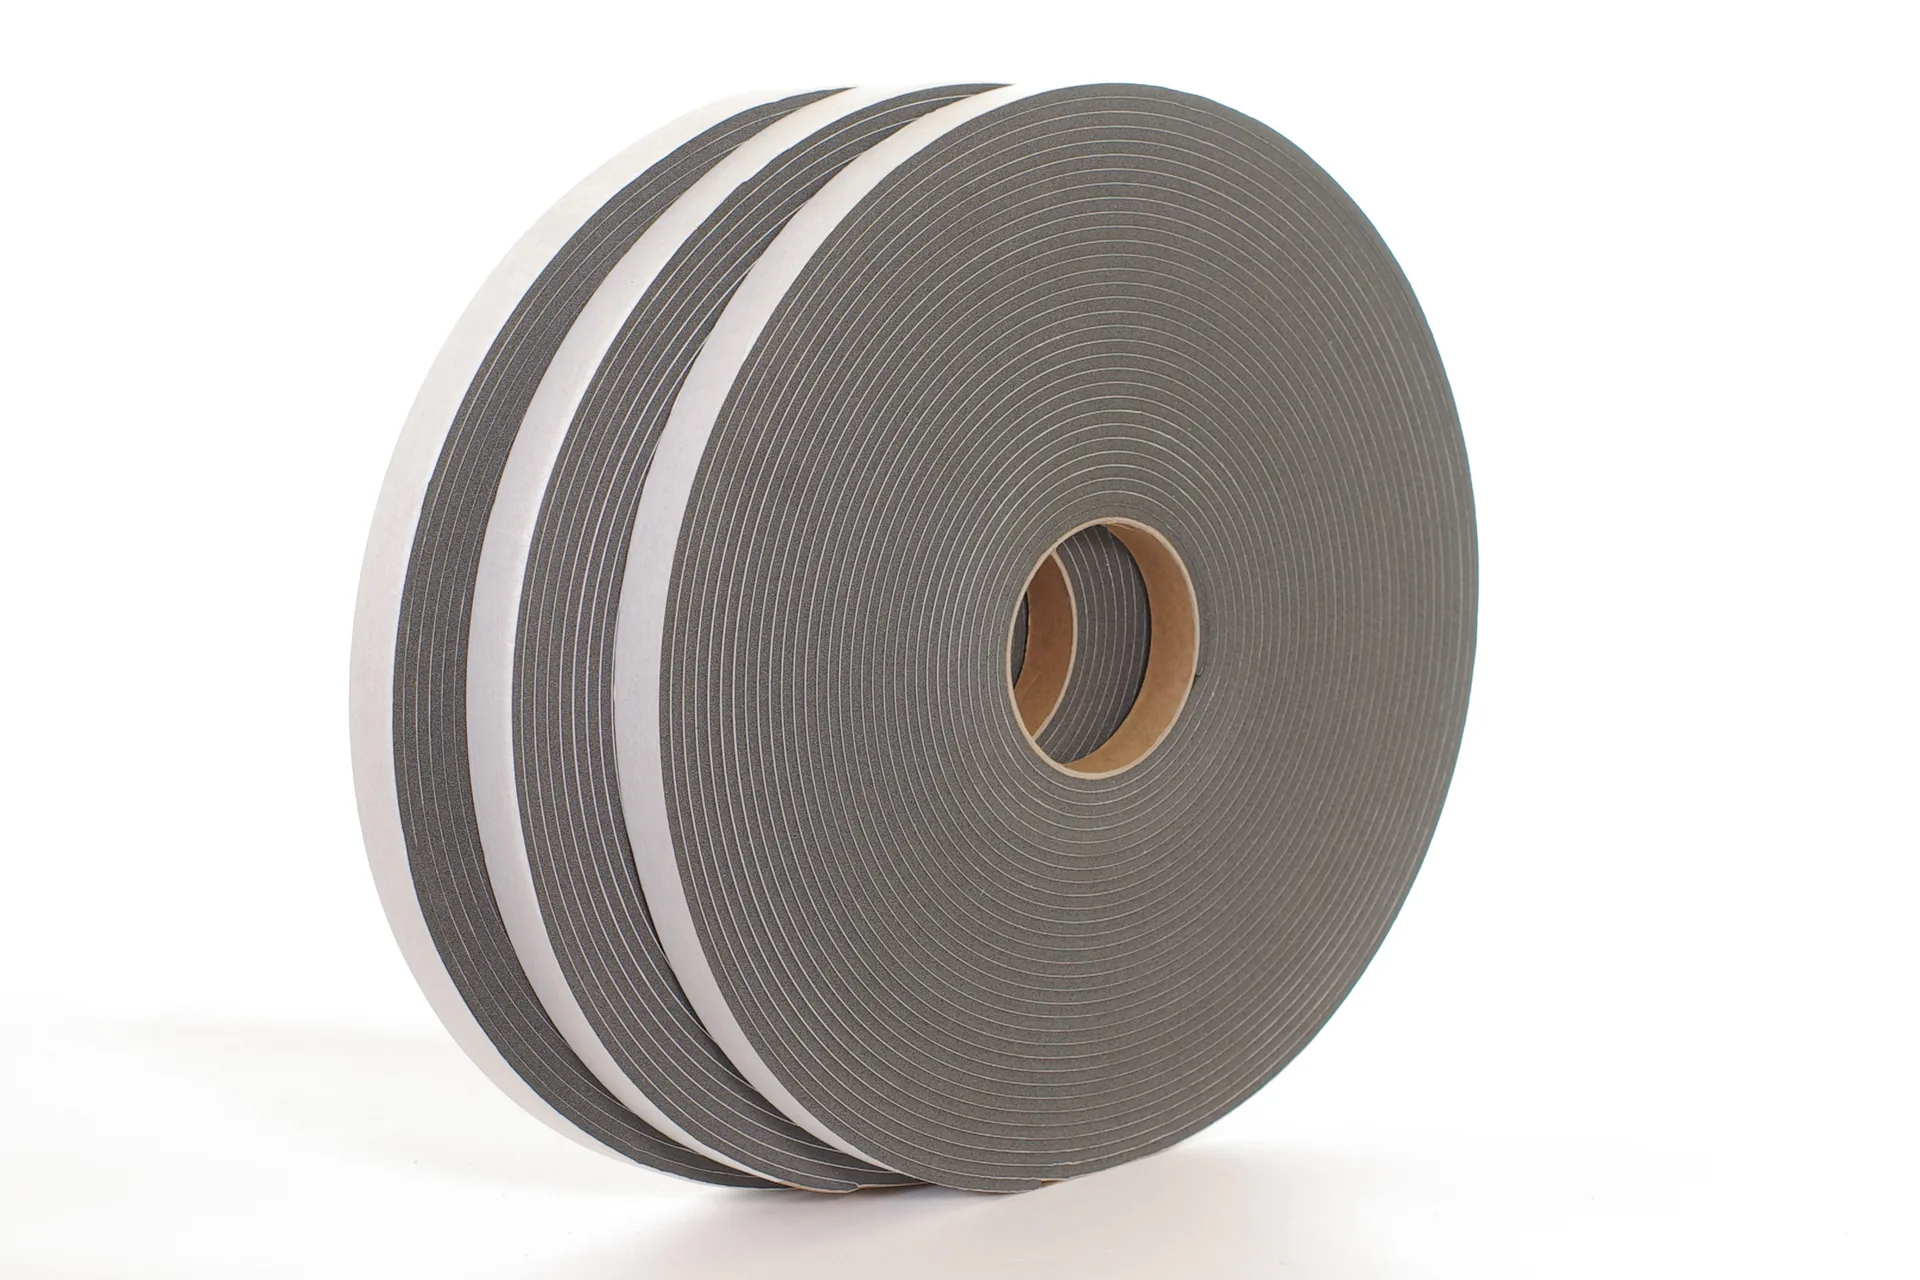
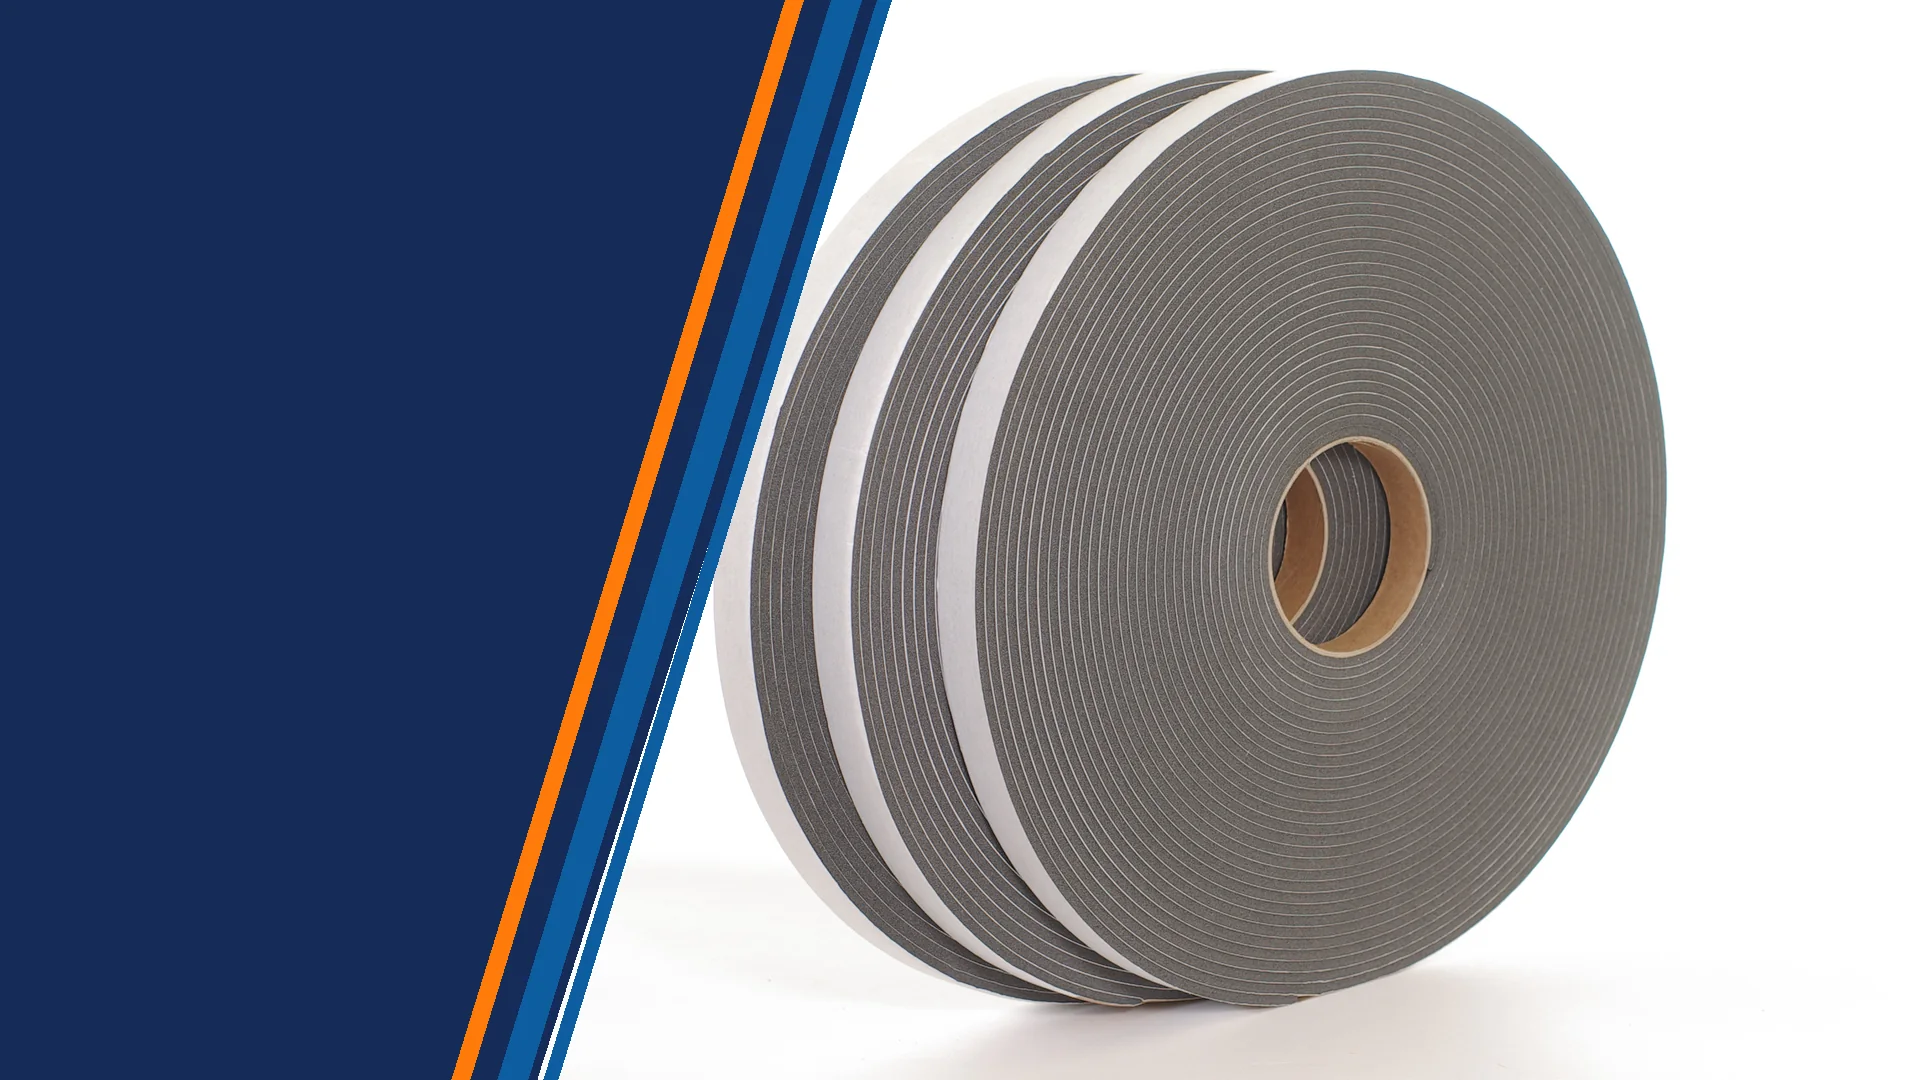
Баннеры четвёртого и пятого слайдов собраны из съёмки клиента
scripts/make-hero-banner.py ставит снимок справа, слева кладёт фирменный
тёмно-синий, между ними косая граница с синей и оранжевой полосой — приём с
баннеров, которые прислал клиент, только вывернутый: у него светлый фон, а
слайдер тёмный, и на светлом левом поле текст слайда бы пропал.

Ленту не дорисовывал: именно этим были плохи прежние кадры — продукция и марка
на них выдуманы. Здесь только фотография и заливка.

Съёмка легла в files/photos (21 файл), в README добавлена строка.

diff --git a/scripts/make-hero-banner.py b/scripts/make-hero-banner.py
@@ -1,0 +1,92 @@
+"""Баннеры для слайдера главной из фотографий клиента.
+
+Слайдер тёмный: слева на кадр ложится градиент и белый текст. Поэтому левая
+часть баннера — фирменный тёмно-синий, справа — снимок продукции, между ними
+косая граница с синей и оранжевой полосой. Тот же приём, что на баннерах,
+которые прислал клиент, только вывернутый: у него светлый фон и фото справа,
+здесь фон тёмный, иначе текст слайда лёг бы на белое.
+
+Ленту нельзя дорисовывать: прежние кадры слайдера были красивы, но продукция и
+марка на них выдуманы — на одном по ленте шла нечитаемая кириллица под видом
+надписи EUROBAND. Здесь только снимки клиента и заливка.
+
+Снимки берутся из `files/photos/` — там съёмка продукции, которую прислал
+клиент.
+
+Запуск: python3 scripts/make-hero-banner.py
+"""
+import pathlib, sys
+from PIL import Image, ImageDraw
+
+ROOT = pathlib.Path(__file__).parent.parent
+PHOTOS = ROOT / 'files/photos'      # съёмка продукции клиента, вне репозитория
+OUT = ROOT / 'src/assets/hero'
+
+W, H = 1920, 1080
+
+NAVY = (22, 44, 88)            # --color-brand-navy, тот же, что фон слайдера
+BLUE = (13, 93, 160)           # синий с баннеров клиента
+ORANGE = (254, 123, 9)         # оранжевый оттуда же
+
+# Косая граница: сверху правее, снизу левее — как на баннерах клиента.
+EDGE_TOP, EDGE_BOTTOM = 0.46, 0.28
+
+BANNERS = [
+    ('64.JPG', 'pes-tape-rolls.webp'),          # слайд «Стык плит и панелей»
+    ('_S4A8870.jpg', 'butyl-tape-roll.webp'),   # слайд «Стыки оснований и покрытий»
+]
+
+
+def cover(photo, box_w, box_h):
+    """Вписать снимок в область по большей стороне, лишнее обрезать."""
+    scale = max(box_w / photo.width, box_h / photo.height)
+    size = (round(photo.width * scale), round(photo.height * scale))
+    photo = photo.resize(size, Image.LANCZOS)
+    left = (size[0] - box_w) // 2
+    top = (size[1] - box_h) // 2
+    return photo.crop((left, top, left + box_w, top + box_h))
+
+
+def bar(draw, shift, width, color):
+    """Полоса вдоль косой границы, сдвинутая влево на `shift` пикселей."""
+    x_top, x_bot = EDGE_TOP * W - shift, EDGE_BOTTOM * W - shift
+    draw.polygon([(x_top, -20), (x_top + width, -20),
+                  (x_bot + width, H + 20), (x_bot, H + 20)], fill=color)
+
+
+def build(source, target):
+    # Снимок вписываем в саму область справа от границы, а не в весь холст:
+    # иначе кадр обрезался по центру полотна и в видимую часть попадал один
+    # рулон во весь экран.
+    box_left = round(EDGE_BOTTOM * W)
+    with Image.open(PHOTOS / source) as raw:
+        photo = cover(raw.convert('RGB'), W - box_left, H)
+
+    canvas = Image.new('RGB', (W, H), NAVY)
+
+    # Маска: фото живёт правее косой границы
+    mask = Image.new('L', (W, H), 0)
+    ImageDraw.Draw(mask).polygon(
+        [(EDGE_TOP * W, 0), (W, 0), (W, H), (EDGE_BOTTOM * W, H)], fill=255)
+    canvas.paste(photo, (box_left, 0), mask.crop((box_left, 0, W, H)))
+
+    draw = ImageDraw.Draw(canvas)
+    bar(draw, 0, 14, BLUE)        # кромка самой границы
+    bar(draw, 46, 30, BLUE)       # широкая синяя
+    bar(draw, 92, 18, ORANGE)     # тонкая оранжевая
+
+    canvas.save(OUT / target, 'WEBP', quality=84, method=6)
+    return (OUT / target).stat().st_size // 1024
+
+
+def main():
+    for source, target in BANNERS:
+        if not (PHOTOS / source).exists():
+            print(f'нет снимка: {source}')
+            continue
+        print(f'{target}: {W}x{H}  {build(source, target)} КБ')
+    return 0
+
+
+if __name__ == '__main__':
+    sys.exit(main())

diff --git a/README.md b/README.md
@@ -79,6 +79,7 @@ python3 scripts/build-catalog.py       # витрина          -> src/data + p
 | `Лестницы_стремянки.csv` | 232 КБ | выгрузка поставщика, лестницы и стремянки |
 | `invit-katalog.xlsx` | 68 КБ | каталог клиента: что оставить в выгрузке |
 | `site-photos/` | 7,6 МБ, 802 файла | фото импортированного крепежа |
+| `photos/` | 49 МБ, 21 файл | съёмка продукции клиента; из неё `scripts/make-hero-banner.py` собирает баннеры слайдера |
 | `woocommerce_import.before-ladders.csv` | 5,7 МБ | снимок выгрузки до лестниц |
 | `woocommerce_import.before-osnastka.csv` | 5,9 МБ | снимок выгрузки до оснастки |
 
